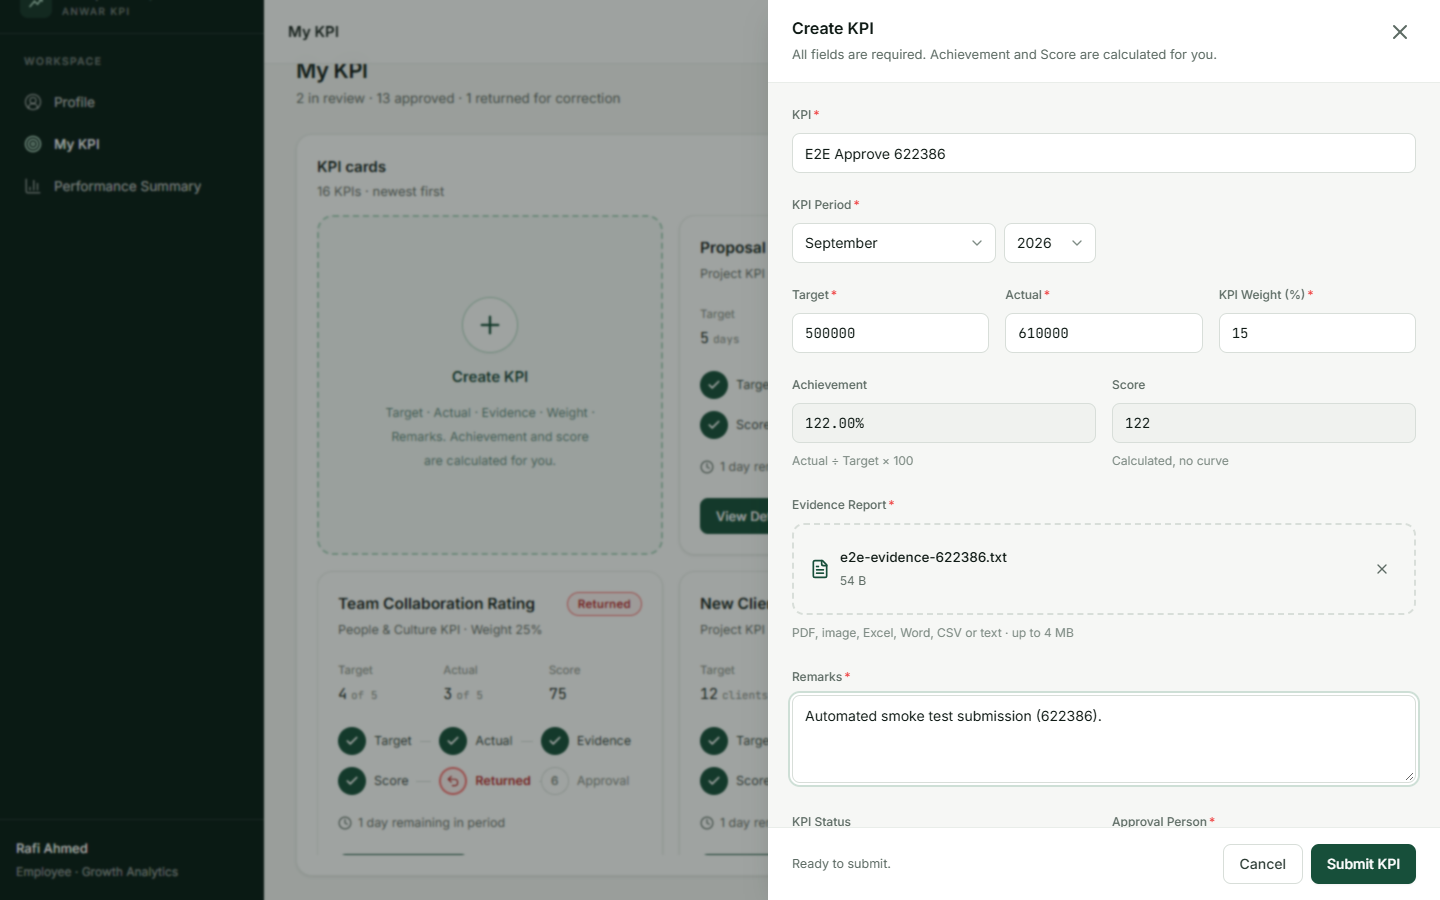
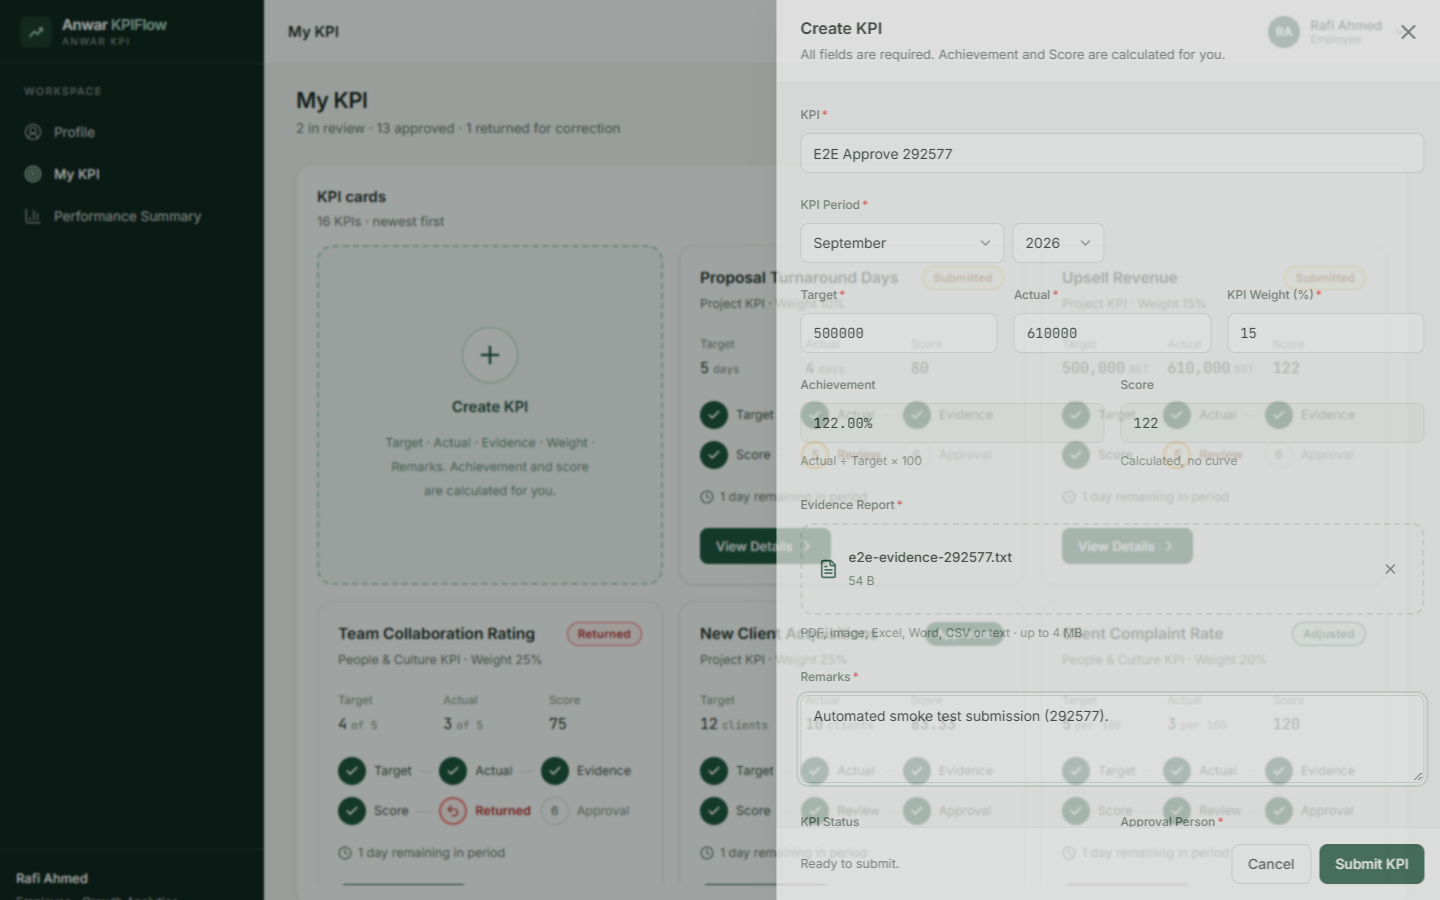
Submit forms: return only the action result and refresh client-side; raise Vercel function duration to 60s

diff --git a/anwar-kpiflow/src/actions/kpi.ts b/anwar-kpiflow/src/actions/kpi.ts
@@ -92,10 +92,6 @@ export async function createKpiAction(_prev: ActionState, formData: FormData): P
   });
   await audit(user.id, "KPI_SUBMITTED", "Kpi", kpi.id, { name: kpi.name, approverId: d.approverId });
   await audit(user.id, "EVIDENCE_UPLOADED", "Kpi", kpi.id, { fileName: stored.fileName, sha256: stored.sha256 });
-
-  revalidatePath("/my-kpi");
-  revalidatePath("/pending-requests");
-  revalidatePath("/dashboard");
   return { ok: true, message: `"${kpi.name}" submitted to your Approval Person.` };
 }
 
@@ -145,9 +141,6 @@ export async function resubmitKpiAction(_prev: ActionState, formData: FormData):
     data: { kpiId: kpi.id, versionNo: updated.currentVersion, action: "RESUBMIT", snapshot: snapshotOf(updated), changes: JSON.stringify(changes), changedById: user.id },
   });
   await audit(user.id, "KPI_RESUBMITTED", "Kpi", kpi.id, { version: updated.currentVersion });
-  revalidatePath("/my-kpi");
-  revalidatePath(`/my-kpi/${kpi.id}`);
-  revalidatePath("/pending-requests");
   redirect(`/my-kpi/${kpi.id}?resubmitted=1`);
 }
 

diff --git a/anwar-kpiflow/src/components/kpi/kpi-form.tsx b/anwar-kpiflow/src/components/kpi/kpi-form.tsx
@@ -2,6 +2,7 @@
 
 import * as React from "react";
 import { useActionState } from "react";
+import { useRouter } from "next/navigation";
 import { UploadCloud, FileText, X } from "lucide-react";
 import { createKpiAction, resubmitKpiAction } from "@/actions/kpi";
 import { Button } from "@/components/ui/button";
@@ -49,6 +50,7 @@ export function KpiFormDrawer({
   const isEdit = !!initial;
   const [state, action, pending] = useActionState(isEdit ? resubmitKpiAction : createKpiAction, null);
   const toast = useToast();
+  const router = useRouter();
   const e = state?.errors ?? {};
 
   const now = new Date(Date.now() + 6 * 3600 * 1000);
@@ -83,6 +85,7 @@ export function KpiFormDrawer({
     if (state?.ok) {
       toast("success", state.message ?? "Submitted.");
       onClose();
+      router.refresh();
     } else if (state && !state.ok && state.message) {
       toast("error", state.message);
     }

diff --git a/anwar-kpiflow/src/app/(app)/layout.tsx b/anwar-kpiflow/src/app/(app)/layout.tsx
@@ -3,6 +3,9 @@ import { db } from "@/lib/db";
 import { AppShell } from "@/components/shell/app-shell";
 import { ROLES } from "@/lib/constants";
 
+/** Vercel: allow slow database round trips and cold starts to finish instead of cutting the response (default is 10 s on Hobby). */
+export const maxDuration = 60;
+
 export default async function AppLayout({ children }: { children: React.ReactNode }) {
   const user = await requireUser();
 

diff --git a/anwar-kpiflow/src/app/(auth)/layout.tsx b/anwar-kpiflow/src/app/(auth)/layout.tsx
@@ -1,6 +1,9 @@
 import Link from "next/link";
 import { Logo } from "@/components/shell/logo";
 
+/** Vercel: allow slow database round trips and cold starts to finish instead of cutting the response (default is 10 s on Hobby). */
+export const maxDuration = 60;
+
 export default function AuthLayout({ children }: { children: React.ReactNode }) {
   return (
     <div className="min-h-screen grid lg:grid-cols-[1.05fr_1fr]">
